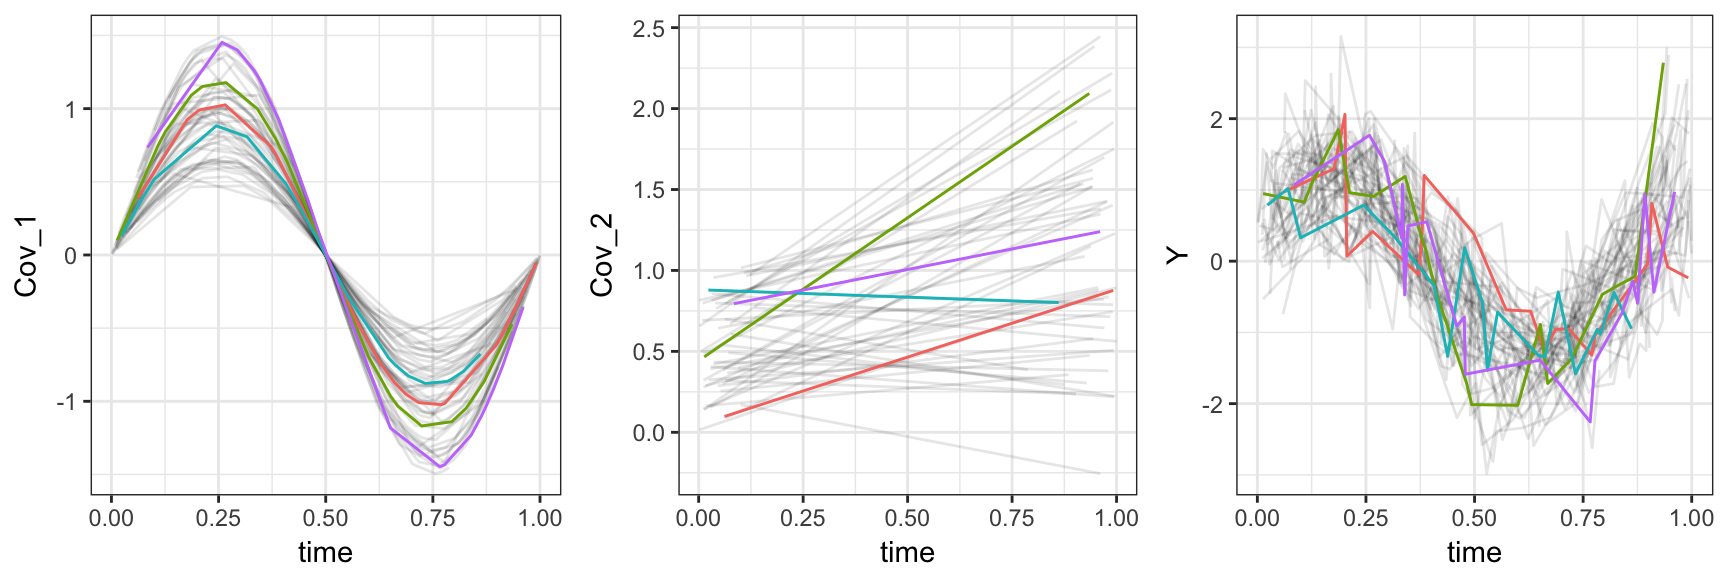
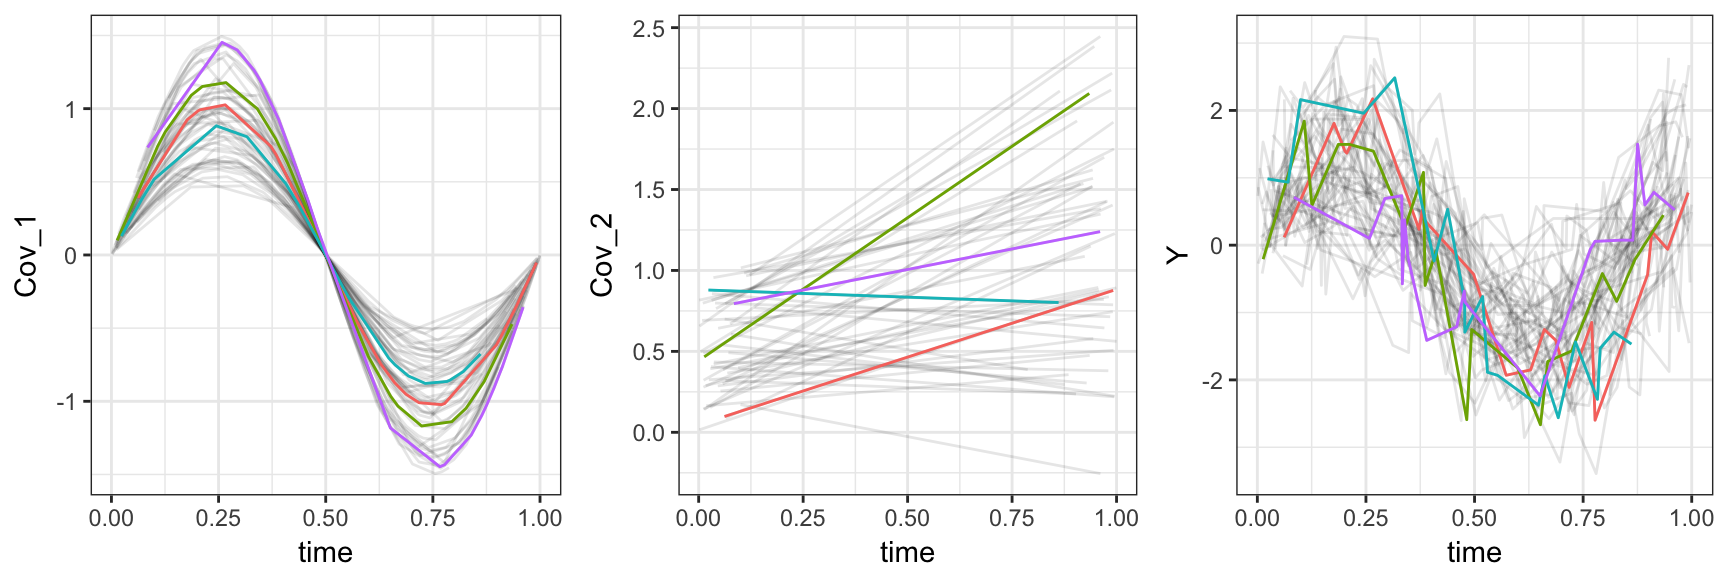
added speakerdeck slides for other topics section

Changed region(s): [[0.6875, 0.0625, 1.0, 0.8125]]

diff --git a/shortcourse_other.html b/shortcourse_other.html
@@ -352,6 +352,10 @@ library(vbvs.concurrent)
 library(refund.shiny)</code></pre>
 <div id="other-topics" class="section level2">
 <h2>Other topics</h2>
+<script async class="speakerdeck-embed" data-id="2db7348be17b4d47a9b0aca62b482559" data-ratio="1.33333333333333" src="//speakerdeck.com/assets/embed.js"></script>
+<div style="margin-bottom:5px">
+<strong> <a href="https://speakerdeck.com/jeffgoldsmith/modeling-motor-learning" title="VS in FDA Short Course IV" target="_blank">VS in FDA Short Course IV</a> </strong> from <strong><a href="https://speakerdeck.com/jeffgoldsmith" target="_blank">Jeff Goldsmith</a></strong>.
+</div>
 </div>
 <div id="practical-example" class="section level2">
 <h2>Practical example</h2>
@@ -364,6 +368,7 @@ I = 50
 ## coefficient functions
 beta1 = function(t) { 1 }
 beta2 = function(t) { cos(2*t*pi) }
+psi1 = function(t) { sin(2*t*pi) }
 
 ## generate subjects and observation times
 concurrent_data = 
@@ -375,8 +380,10 @@ concurrent_data =
   group_by(subj) %&gt;%
     mutate(Cov_1 = runif(1, .5, 1.5) * sin(2 * pi * time),
            Cov_2 = runif(1, 0, 1) + runif(1, -.5, 2) * time,
+                 FPC_score = rnorm(1, 0, .5),
            Y = Cov_1 * beta1(time) + 
                Cov_2 * beta2(time) +
+                       FPC_score * psi1(time) + 
                rnorm(20, 0, .5)) %&gt;%
   ungroup() %&gt;%
     dplyr::select(subj, time, Y, everything())
@@ -404,8 +411,9 @@ concurrent_data = bind_cols(concurrent_data, as.data.frame(superfulous_covariate
 ## ..........</code></pre>
 <p>The plot below shows true coefficients and estimates without using variable selection.</p>
 <p><img src="shortcourse_other_files/figure-html/coefficients-1.png" width="864" /></p>
-<p>Interactive graphics show observed data, coefficient functions, and residual curves. The code below will produce such a graphic.</p>
-<pre class="r"><code>plot_shiny(fit_vbvs)</code></pre>
+<p>Interactive graphics show observed data, coefficient functions, and residual curves. The code below will produce such a graphic. As noted in the slides, this approach also uses FPCA to decompose residual curves as part of the overall model fitting; this decomposition can be viewed using the tool we saw previously.</p>
+<pre class="r"><code>plot_shiny(fit_vbvs)
+plot_shiny(fit_vbvs$fpca.obj)</code></pre>
 </div>
 <div id="try-it-yourself" class="section level2">
 <h2>Try it yourself!</h2>

diff --git a/shortcourse_review.html b/shortcourse_review.html
@@ -356,7 +356,7 @@ library(refund.shiny)</code></pre>
 <h2>Methods for variable selection</h2>
 <script async class="speakerdeck-embed" data-id="a3d65d19df9d45f69010597ab6c957c6" data-ratio="1.33333333333333" src="//speakerdeck.com/assets/embed.js"></script>
 <div style="margin-bottom:5px">
-<strong> <a href="https://speakerdeck.com/jeffgoldsmith/modeling-motor-learning" title="Review of methods" target="_blank">Review of methods</a> </strong> from <strong><a href="https://speakerdeck.com/jeffgoldsmith" target="_blank">Jeff Goldsmith</a></strong>.
+<strong> <a href="https://speakerdeck.com/jeffgoldsmith/modeling-motor-learning" title="VS in FDA Short Course I" target="_blank">VS in FDA Short Course I</a> </strong> from <strong><a href="https://speakerdeck.com/jeffgoldsmith" target="_blank">Jeff Goldsmith</a></strong>.
 </div>
 </div>
 <div id="practical-example" class="section level2">

diff --git a/about.html b/about.html
@@ -303,7 +303,7 @@ devtools::install_github(&quot;jeff-goldsmith/vbvs.concurrent&quot;)</code></pre
 ##  Rcpp              0.12.10   2017-03-19
 ##  RcppEigen         0.3.2.8.1 2016-03-01
 ##  refund            0.1-16    2016-08-03
-##  refund.shiny      0.3.0     2017-03-19
+##  refund.shiny      0.3.0     2017-03-22
 ##  reshape2          1.4.2     2016-10-22
 ##  Rgraphviz         2.14.0    2015-10-14
 ##  RLRsim            3.1-3     2016-11-04
